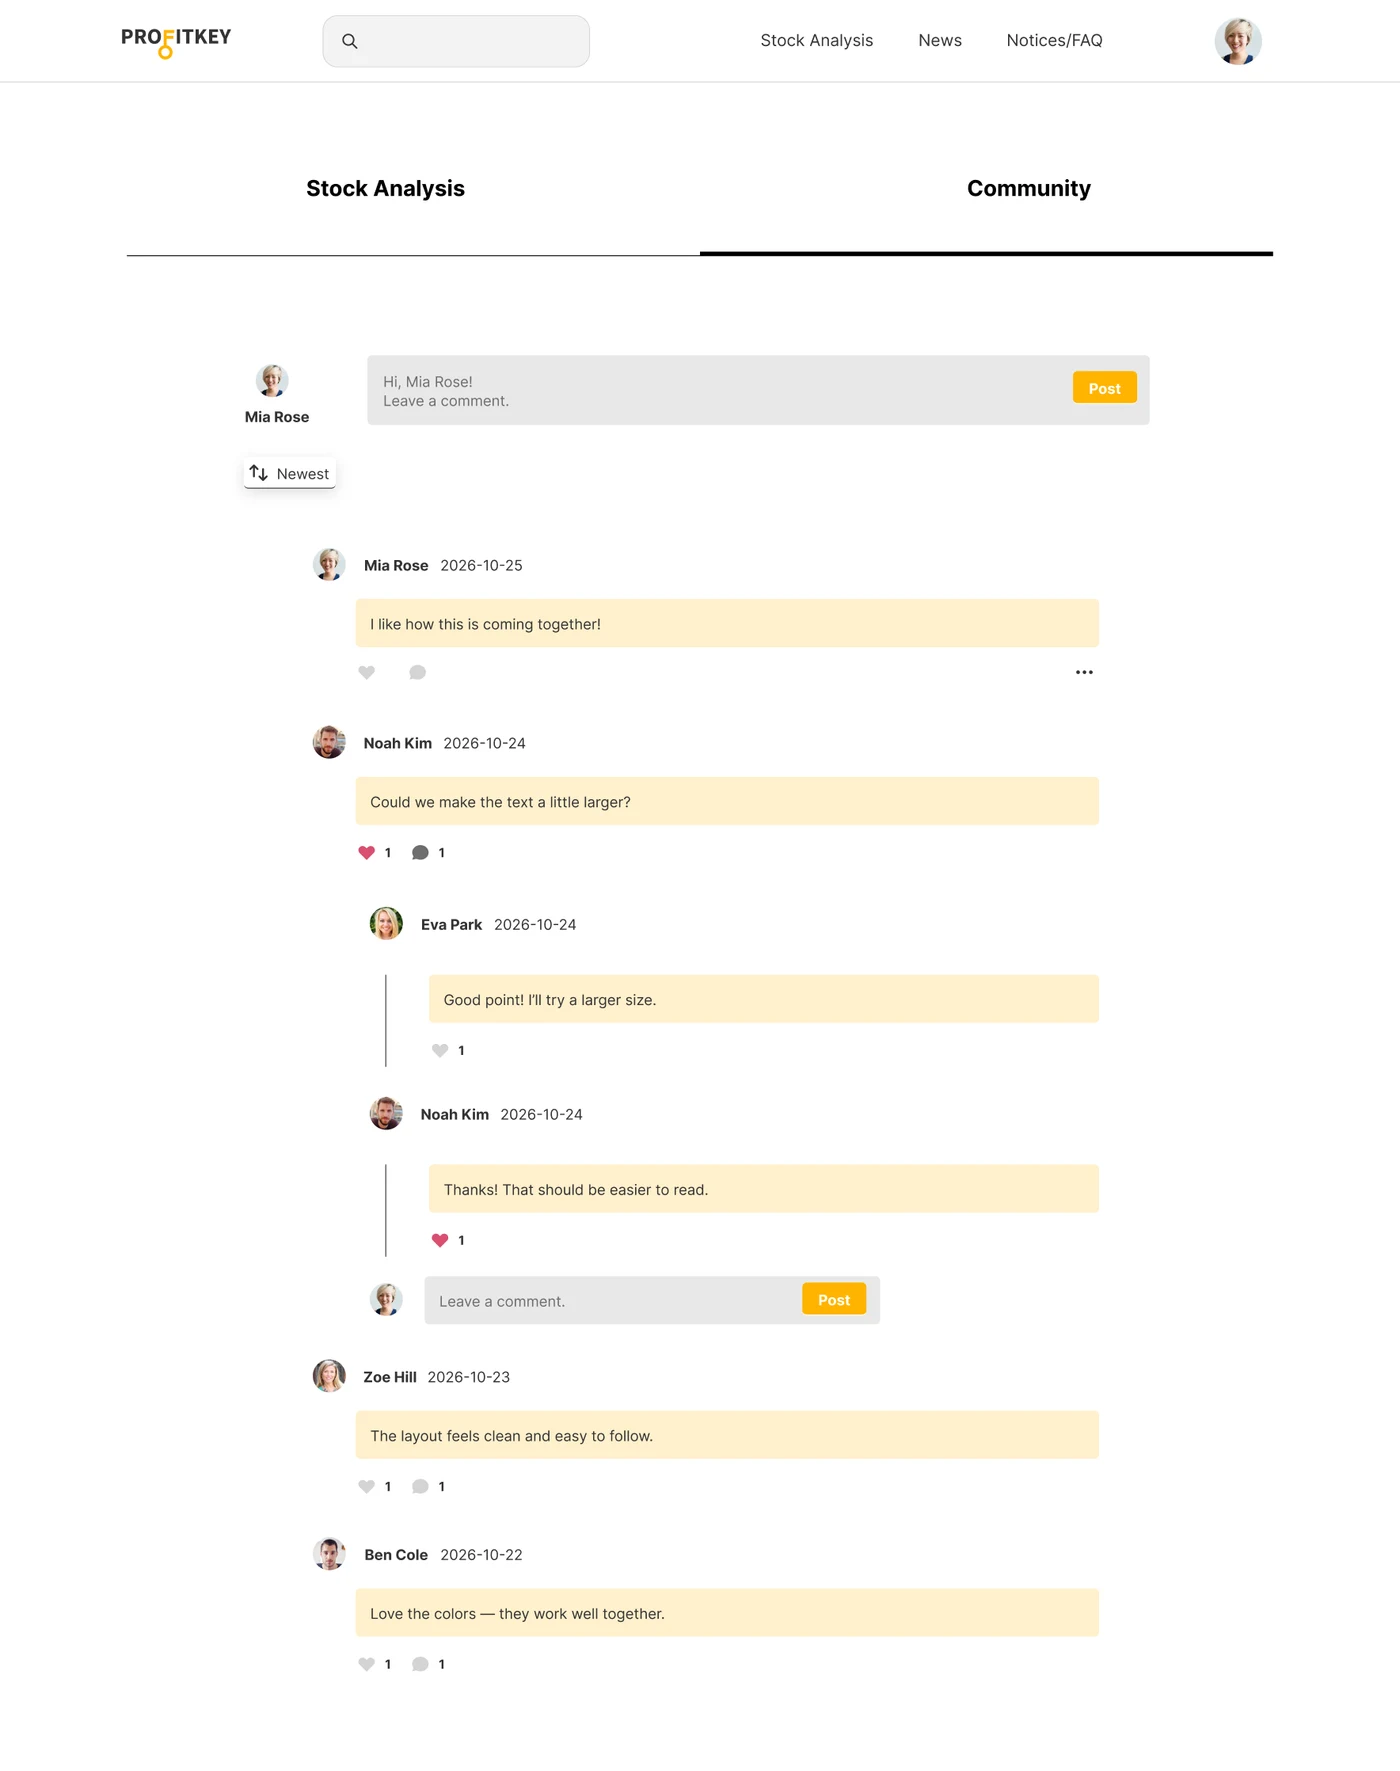
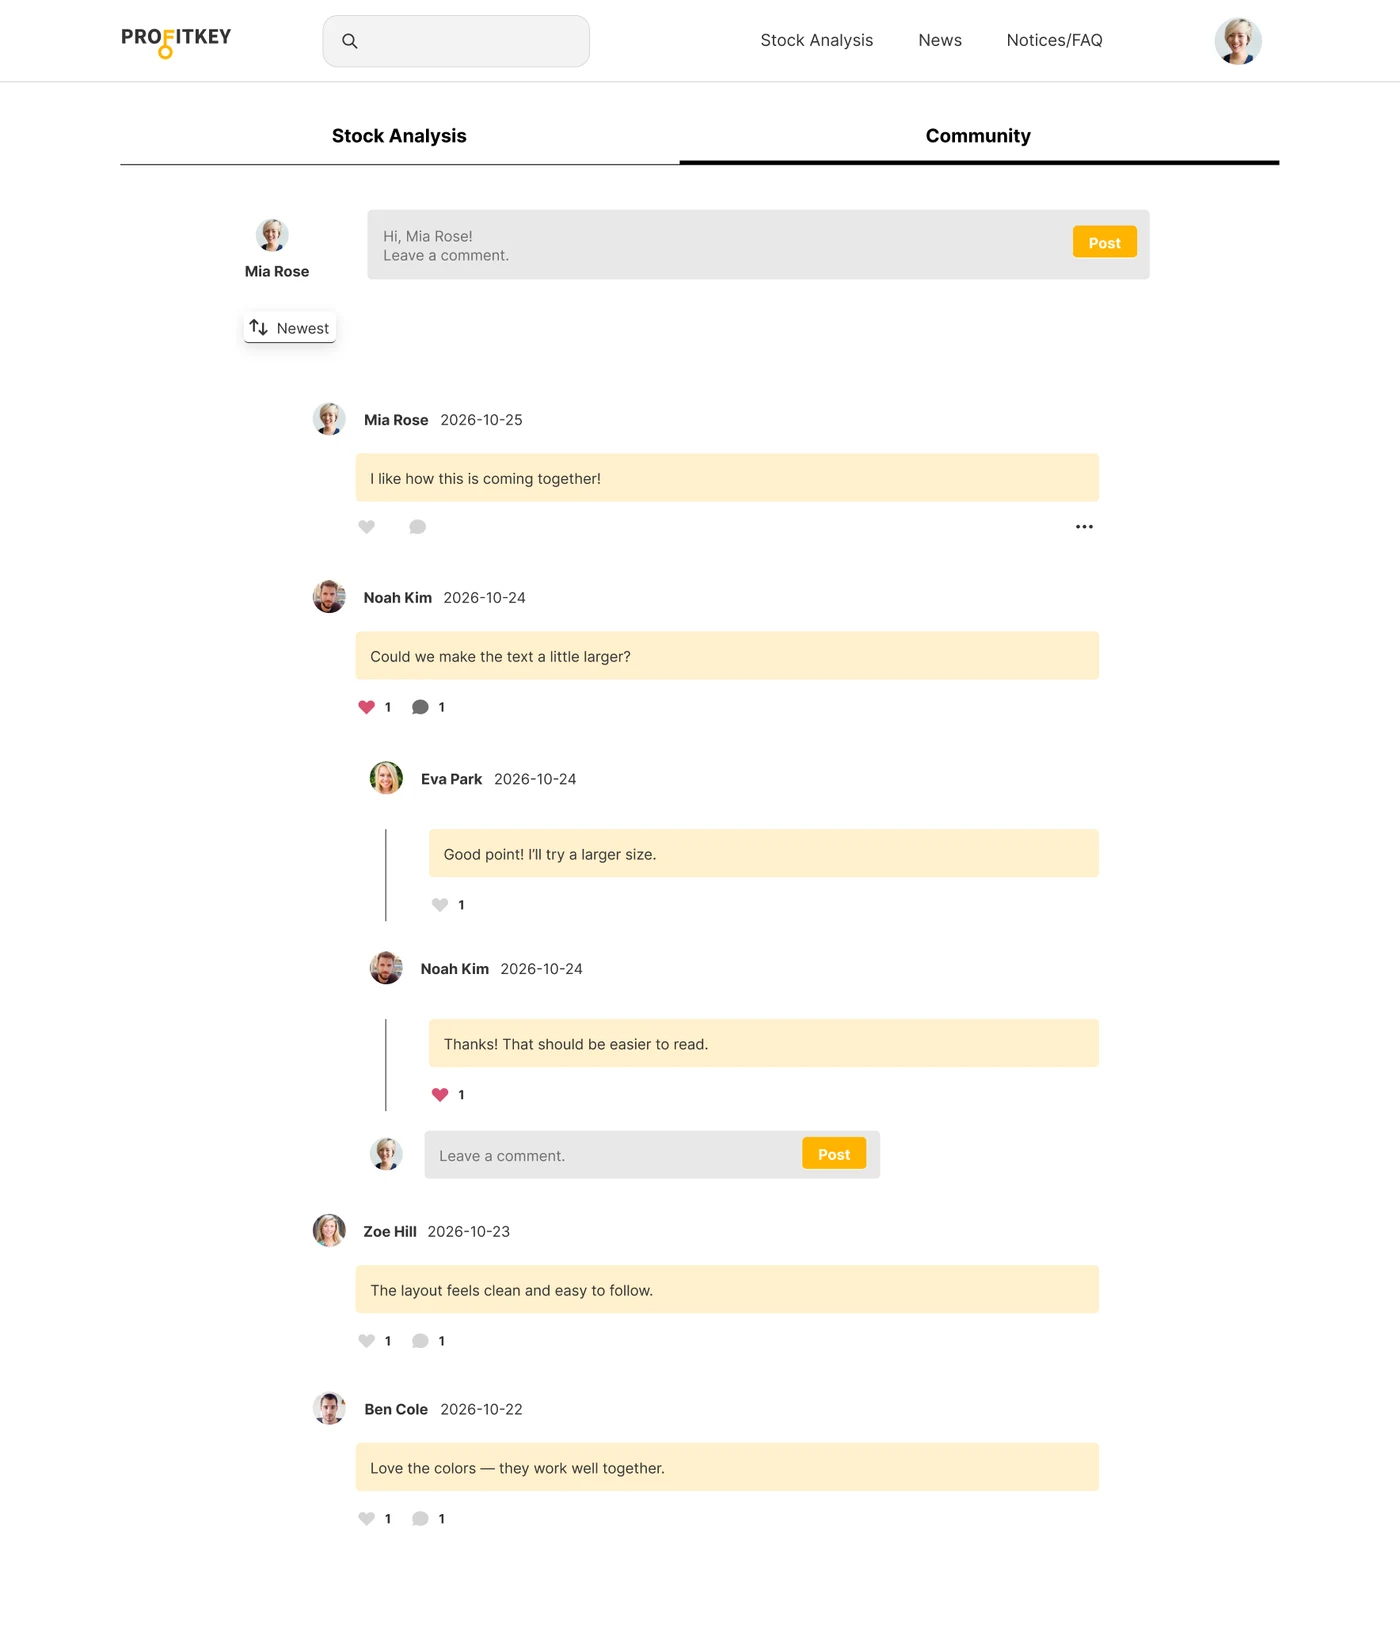
Match the PROFITKEY Community tab bar to Stock Analysis
Same text size, gap to the line and space below, in Figma and on the site.

diff --git a/src/data/projects.ts b/src/data/projects.ts
@@ -419,7 +419,7 @@ export const projects: Project[] = glueAll<Project[]>([
               {
                 title: 'Community',
                 note: 'Each stock has its own community, with threaded comments and replies.',
-                figure: { ...screen('profitkey-en-community', 'PROFITKEY stock community tab: a comment box and a list of comments with nested replies.', 'Community', 1400, 1771), tall: true },
+                figure: { ...screen('profitkey-en-community', 'PROFITKEY stock community tab: a comment box and a list of comments with nested replies.', 'Community', 1400, 1625), tall: true },
               },
               {
                 title: 'News',
